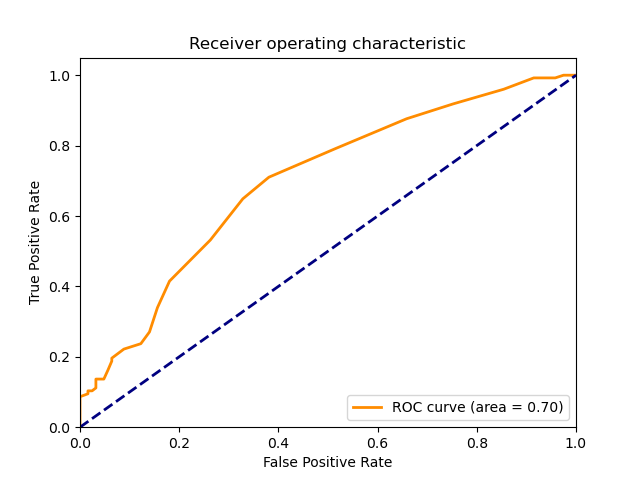
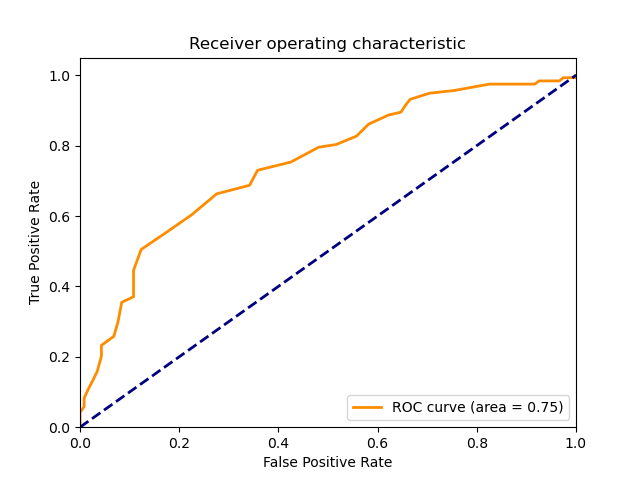
添加Val@FAR部分的注释

diff --git a/utils/utils_metrics.py b/utils/utils_metrics.py
@@ -10,6 +10,15 @@ from tqdm import tqdm
 # 在训练集上, 在每个阈值下计算 Acc, 取 Acc 最高作为最佳阈值
 # 然后用该阈值, 计算测试集上的 Acc, 作为该折的 Acc
 
+# 分成 10 折, train:test = 9:1, 最终返回的是10个测试集上的 Validation Rate 的均值、方差和 Far 的均值
+# 在训练集上, 选取 FAR = 0.001 的阈值, 放在测试集上, 取得测试集的 Val 和 Far
+# 每个折取均值
+
+# tpr,fpr 用来画 ROC 曲线 (400)
+# accuracy 是准确率评价指标 (10)
+# val 是每个折上的均值
+# val_std 是每个折上的标准差
+# far 是每个折上的均值
 def evaluate(distances, labels, nrof_folds=10):
     # Calculate evaluation metrics
     thresholds = np.arange(0, 4, 0.01)
@@ -22,8 +31,9 @@ def evaluate(distances, labels, nrof_folds=10):
     # Calculate evaluation metrics
     thresholds = np.arange(0, 4, 0.001)
     val, val_std, far = calculate_val(thresholds, distances,
-                                      labels, 1e-3, nrof_folds=nrof_folds)
+                                      labels, 1e-2, nrof_folds=nrof_folds)
     return tpr, fpr, accuracy, val, val_std, far, best_thresholds
+    #     (400),(400), (10),   (1),   (1),   (1),  (1)
 
 
 def calculate_roc(thresholds, distances, labels, nrof_folds=10):
@@ -95,10 +105,13 @@ def calculate_accuracy(threshold, dist, actual_issame):
 
 
 def calculate_val(thresholds, distances, labels, far_target=1e-3, nrof_folds=10):
+    # pair 的数量
     nrof_pairs = min(len(labels), len(distances))
+    # 阈值的数量
     nrof_thresholds = len(thresholds)
     k_fold = KFold(n_splits=nrof_folds, shuffle=False)
 
+    # (10)
     val = np.zeros(nrof_folds)
     far = np.zeros(nrof_folds)
 
@@ -107,31 +120,44 @@ def calculate_val(thresholds, distances, labels, far_target=1e-3, nrof_folds=10)
     for fold_idx, (train_set, test_set) in enumerate(k_fold.split(indices)):
         # Find the threshold that gives FAR = far_target
         far_train = np.zeros(nrof_thresholds)
+        # 遍历阈值, 计算每个阈值下的 val 和 far
         for threshold_idx, threshold in enumerate(thresholds):
             _, far_train[threshold_idx] = calculate_val_far(
                 threshold, distances[train_set], labels[train_set])
+        # 绘制函数
         if np.max(far_train) >= far_target:
             # 这里有问题, 还不清楚是什么问题
+            # 一维插值函数, 将 far_train 映射到每个阈值
+            # far_train 到 thresholds 有一个映射关系
             f = interpolate.interp1d(far_train, thresholds, kind='slinear')
+            # 选取 far_target = 0.001 对应的阈值
             threshold = f(far_target)
         else:
             threshold = 0.0
 
+        # 计算这个阈值下, 这个 fold 的 val 和 far
         val[fold_idx], far[fold_idx] = calculate_val_far(
             threshold, distances[test_set], labels[test_set])
 
+    # 每个 fold 的平均值
     val_mean = np.mean(val)
     far_mean = np.mean(far)
     val_std = np.std(val)
-    return val_mean, val_std, far_mean
+    return val_mean, val_std, far_mean  # far 的均值
 
 
 def calculate_val_far(threshold, dist, actual_issame):
+    # np.less(x1,x2) 对两个数组中对应位置的元素进行比较, 如果 x1 中的元素小于 x2 的元素, 则返回 True
+    # 所有的距离与阈值比较
     predict_issame = np.less(dist, threshold)
+    # tp
     true_accept = np.sum(np.logical_and(predict_issame, actual_issame))
+    # fp
     false_accept = np.sum(np.logical_and(
         predict_issame, np.logical_not(actual_issame)))
+    # tp + fn
     n_same = np.sum(actual_issame)
+    # tn + fp
     n_diff = np.sum(np.logical_not(actual_issame))
     if n_diff == 0:
         n_diff = 1

diff --git a/nets/arcface.py b/nets/arcface.py
@@ -18,15 +18,19 @@ class Arcface_Head(Module):
         super(Arcface_Head, self).__init__()
         self.s = s
         self.m = m
+        # torch.FloatTensor(), 创建一个浮点数数组 (num_classes, embedding_size)
+        # Parameter对象作为模型的一部分的时候, 可以被自动求导
         self.weight = Parameter(torch.FloatTensor(num_classes, embedding_size))
+        # 使用了 Xavier 均匀分布来随机初始化权重, 有助于网络更快地收敛，并且可以在训练过程中较少地出现梯度消失或爆炸的问题
         nn.init.xavier_uniform_(self.weight)
 
-        self.cos_m = math.cos(m)
-        self.sin_m = math.sin(m)
-        self.th = math.cos(math.pi - m)
-        self.mm = math.sin(math.pi - m) * m
+        self.cos_m = math.cos(m)    # 固定值
+        self.sin_m = math.sin(m)    # 固定值
+        self.th = math.cos(math.pi - m)     # 固定值
+        self.mm = math.sin(math.pi - m) * m  # 固定值
 
     def forward(self, input, label):
+        # 在计算图之外进行运算, y = F.linear(x,A,b)
         cosine = F.linear(input, F.normalize(self.weight))
         sine = torch.sqrt((1.0 - torch.pow(cosine, 2)).clamp(0, 1))
         phi = cosine * self.cos_m - sine * self.sin_m
@@ -97,6 +101,7 @@ class Arcface(nn.Module):
     def forward(self, x, y=None, mode="predict"):
         x = self.arcface(x)  # 返回一个一维的向量  (64, 512)
         x = x.view(x.size()[0], -1)  # 拉成一维
+        # 在计算图之外进行标准化
         x = F.normalize(x)  # 标准化
         if mode == "predict":
             return x

diff --git a/eval_LFW.py b/eval_LFW.py
@@ -32,11 +32,14 @@ if __name__ == "__main__":
     # --------------------------------------#
     # model_path = "./logs/logs6/ep100-loss0.007-val_loss1.250.pth"
     # model_path = "./logs/logs6/ep096-loss0.007-val_loss1.227.pth"
-    model_path = "model_data/arcface_mobilefacenet.pth"
+    model_path = "./logs/logs7/ep100-loss0.008-val_loss13.744.pth"
+    # model_path = "model_data/arcface_mobilefacenet.pth"
     # --------------------------------------#
     #   LFW评估数据集的文件路径
     #   以及对应的txt文件
     # --------------------------------------#
+    # lfw_dir_path = "datasets/lfw"
+    # lfw_pairs_path = "model_data/lfw_pair.txt"
     lfw_dir_path = "datasets/SCface/sc2_6"
     lfw_pairs_path = "model_data/SCface_pair.txt"
     # --------------------------------------#
